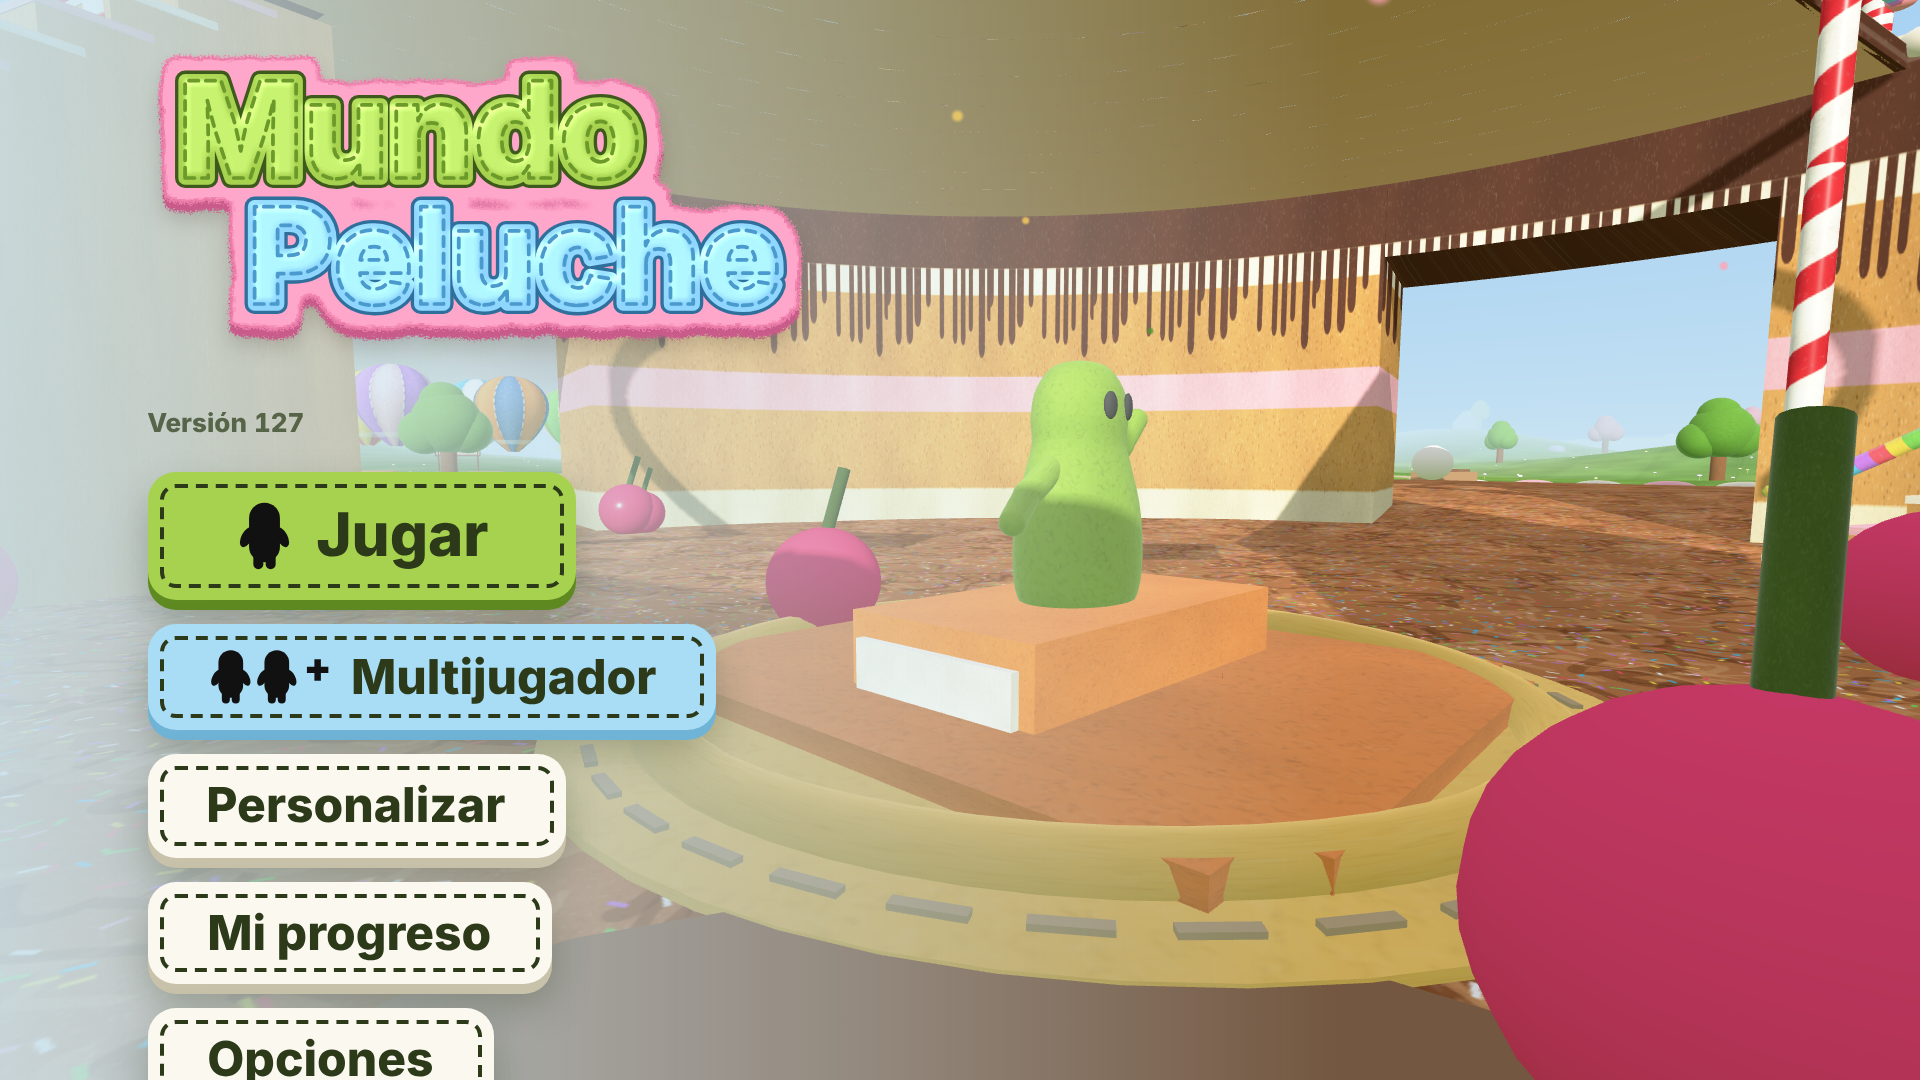
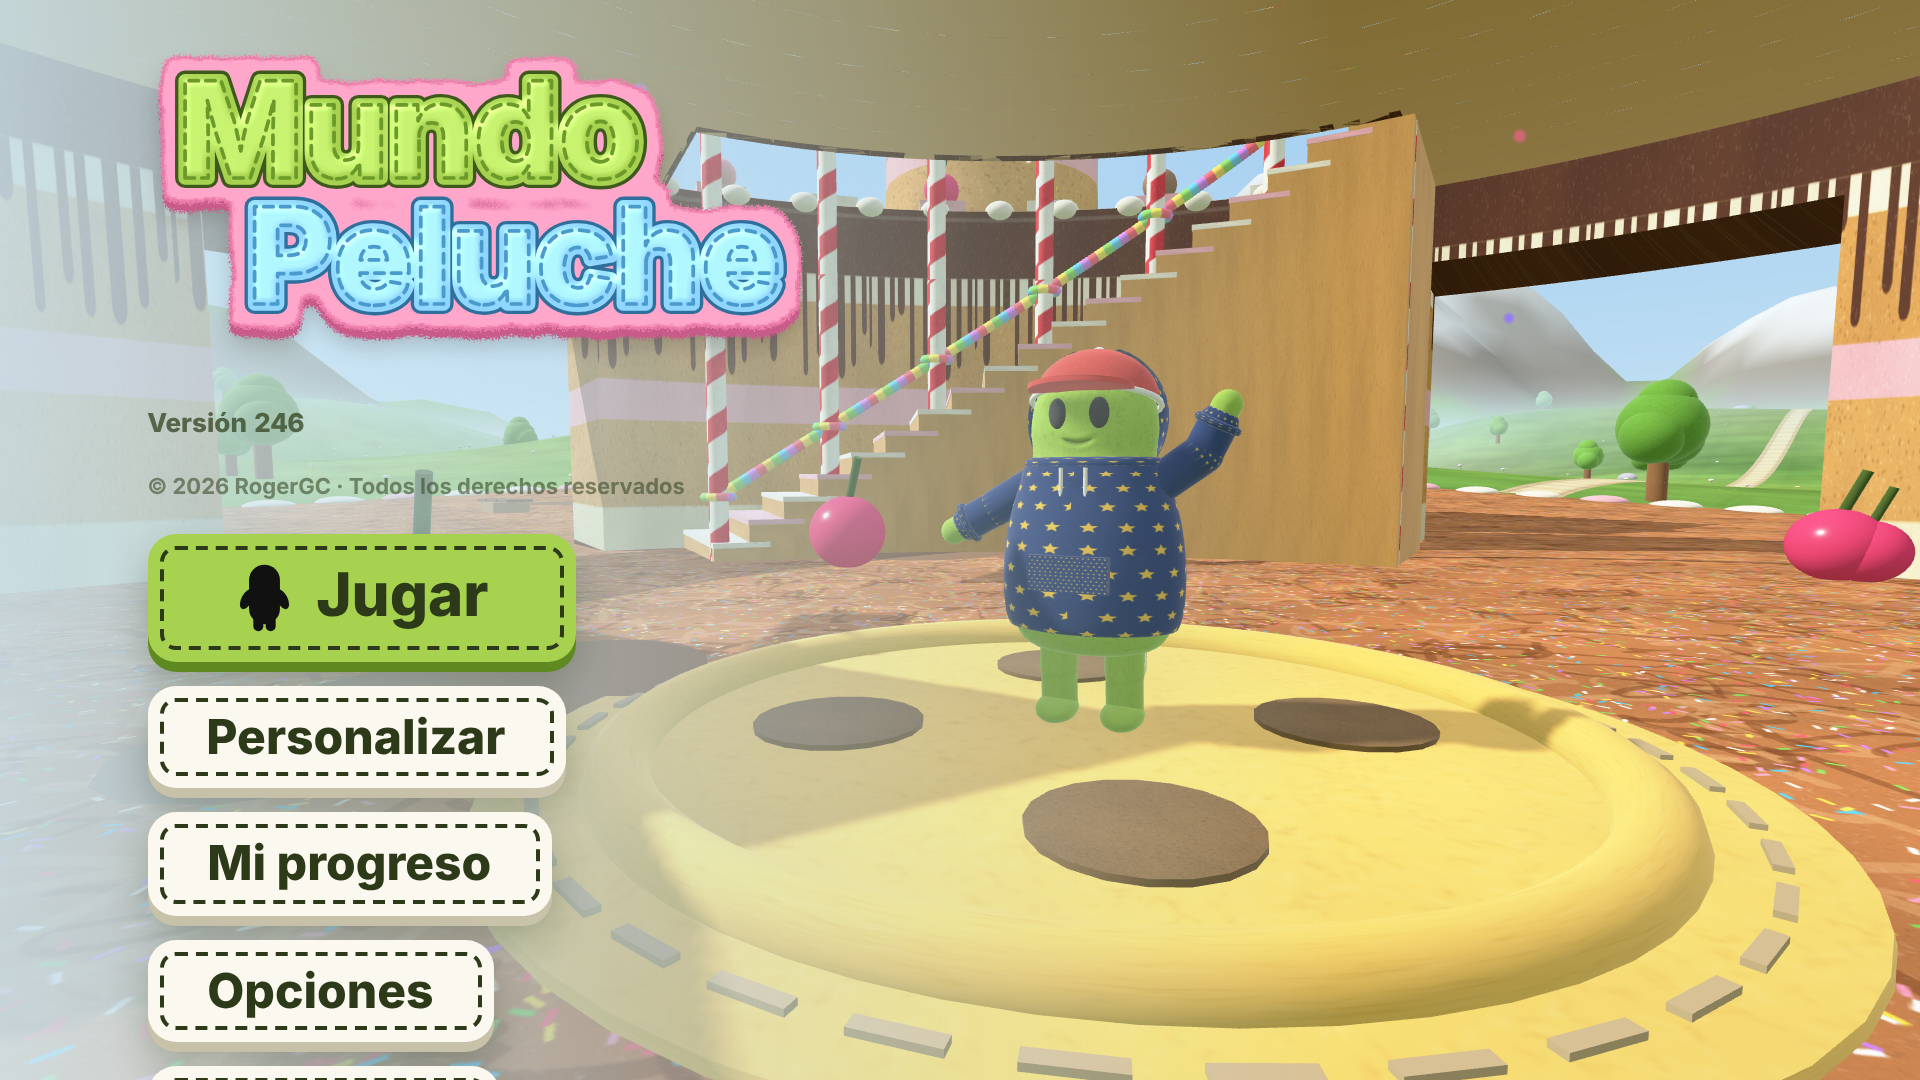
v246 (borrador): capturas nuevas para Google Play (8, 1920x1080, con íconos dibujados y control para papás)
Claude-Session: https://claude.ai/code/session_01E5RLjyQWiLYmHaCZpqzEL1

diff --git a/tienda/ficha.md b/tienda/ficha.md
@@ -53,7 +53,7 @@ PENSADO PARA TODA LA FAMILIA
 ## Imágenes
 - **Ícono (512×512):** `herramientas/web/icono-512.png`
 - **Gráfico de funciones (1024×500):** `tienda/destacado.png`
-- **Capturas de teléfono (mínimo 2, recomendado 4 a 8):** `tienda/capturas/*.png` (1920×1080)
+- **Capturas de teléfono (mínimo 2, recomendado 4 a 8):** `tienda/capturas/*.png` (8 capturas, 1920×1080, versión 246)
 
 ## Cuestionarios de Play Console (respuestas sugeridas)
 
